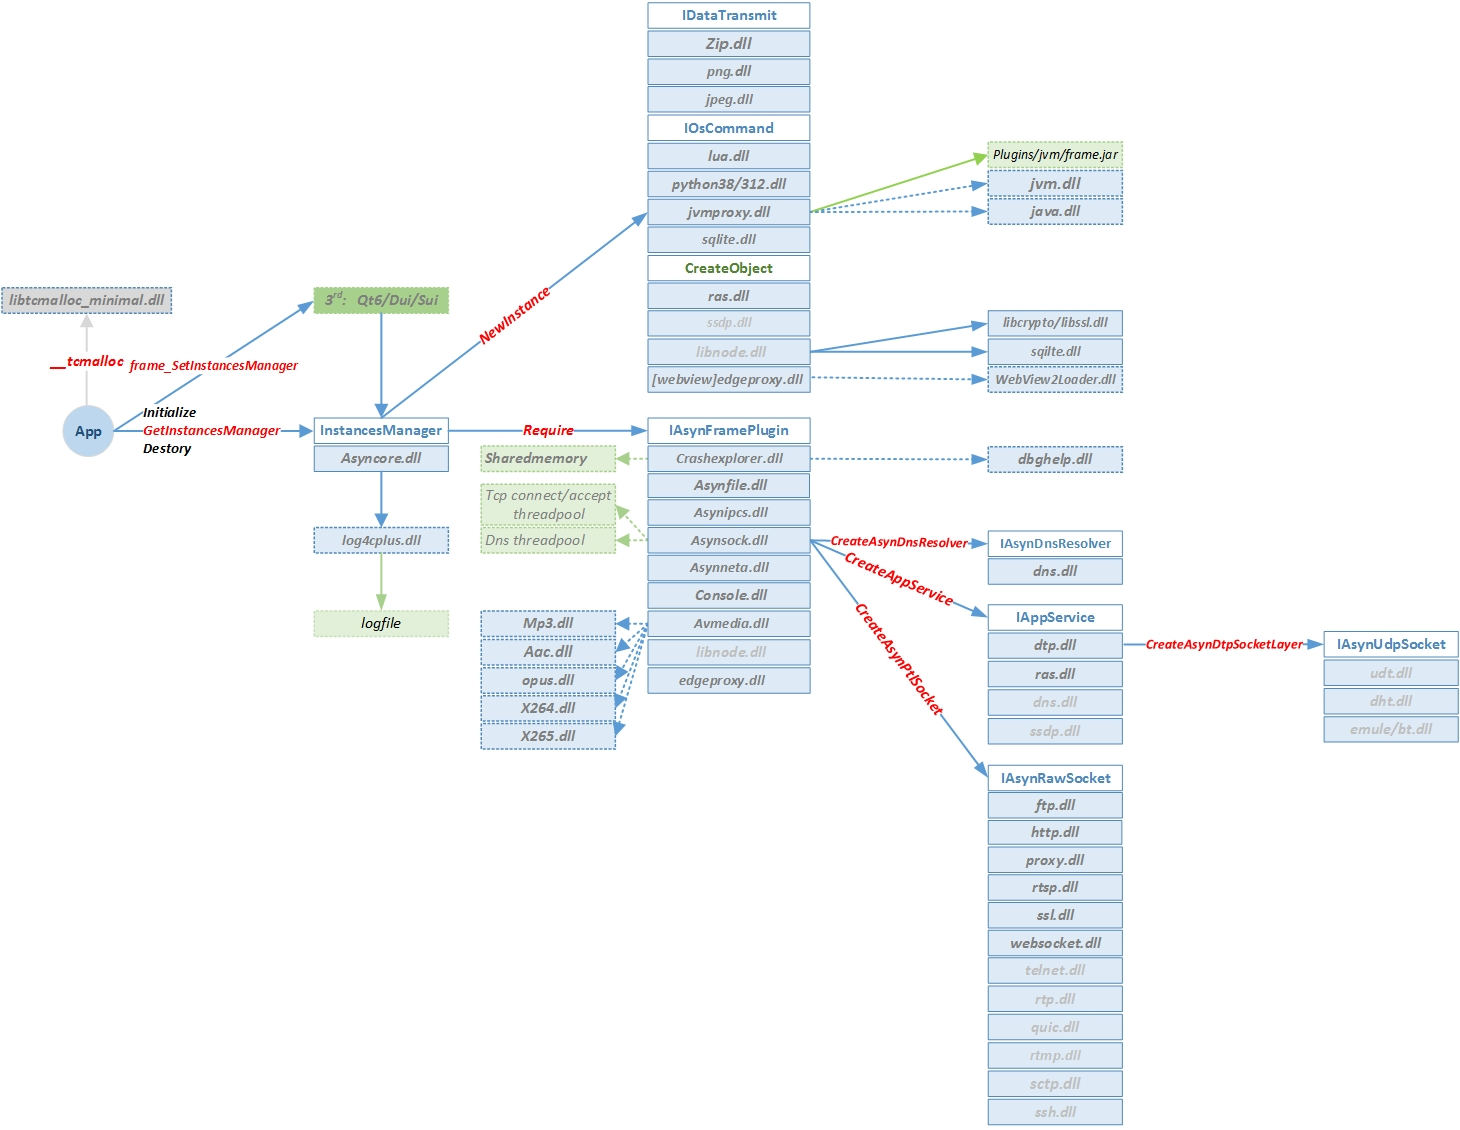
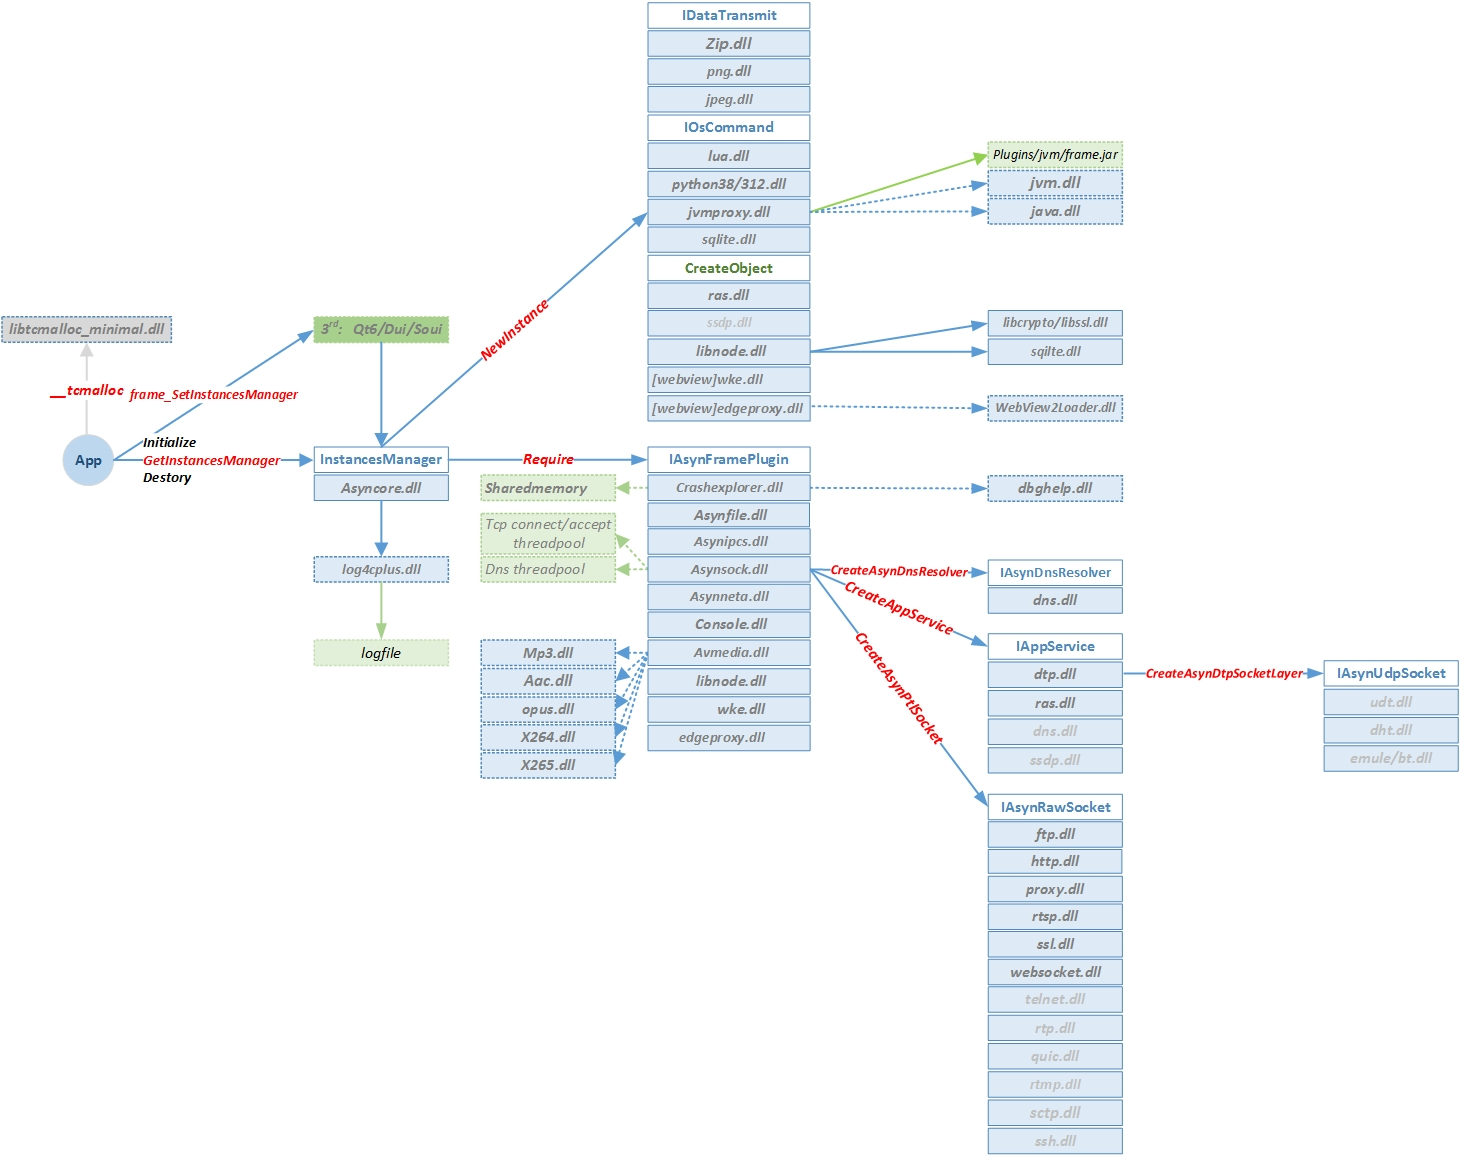
2.0.0-20250208

Changed region(s): [[0.0, 0.0, 1.0, 0.9912], [0.6164, 0.5885, 0.6473, 0.6504]]

diff --git a/index_EN.md b/index_EN.md
@@ -23,7 +23,7 @@ Asynframe framework solves the six problems mentioned above in the process of so
 ![image](https://netsecsp.github.io/img/02_asynframe.jpg)  
 
 **Feature:**  
-1. Easy integration into MFC，[DUI](https://github.com/duilib/duilib)，[SoUI](https://github.com/SOUI2/soui)，[Qt6.x](https://download.qt.io/archive/qt) And other third-party open source projects  
+1. Easy integration into MFC，[DUI](https://github.com/duilib/duilib)，[SoUI](https://github.com/SOUI2/soui)，[Qt6.7.3](https://download.qt.io/archive/qt) And other third-party open source projects  
 2. Provide a unified device operation interface (including file, pipe, socket, etc.)  
 3. The operation chain is used to solve the problems of synchronization / communication between threads, execution timeout and resource / performance when integrating third-party open source projects  
 4. Provide basic network protocol module：dns/udp/tcp/ssl/ftp/http/rtsp/proxy/websocket  
@@ -45,8 +45,9 @@ Asynframe framework solves the six problems mentioned above in the process of so
 |:--|:--|:--|:--|
 |asyncore|framework|asynframe|\support\testframe|
 |||integrate MFC|\support\3rd\mfc\testnetserver<br>\support\3rd\mfc\testnetclient_dlg<br>\support\3rd\mfc\testnetclient_doc|
-|||integrate [DUI](https://github.com/duilib/duilib)|\support\3rd\Dui|
-|||integrate [SoUI](https://github.com/SOUI2/soui)|\support\3rd\Sui|
+|||integrate [DUI](https://github.com/duilib/duilib)|https://github.com/netsecsp/asynframe_warehouse/3rd/Dui|
+|||integrate [SoUI](https://github.com/SOUI2/soui)|https://github.com/netsecsp/asynframe_warehouse/3rd/Sui|
+|||integrate [Qt6.7.3](https://github.com/SOUI2/soui)|https://github.com/netsecsp/asynframe_warehouse/3rd/Qt6.7.3|
 |crashexplorer|plugin[asyncore]|Capture the crash information of the current process and generate DMP file at the same time|\support\testcrashexplorer|
 |console|plugin[asyncore]|console<br>1.implement loading / unloading IOsCommand plug-ins：cmd/lua<br>2.implement keyboard / mouse input|\support\testconsole|
 |asynfile|plugin[asyncore]|file|\support\testfile_copy<br>\support\testfile_copy-pipe|
@@ -66,6 +67,7 @@ Asynframe framework solves the six problems mentioned above in the process of so
 |lua|plugin|Implementation of IOsCommand interface lua framework|\support\testlua\testlua<br>\support\testlua\testapi|
 |jvmproxy|plugin|Implementation of IOsCommand interface java framework|\support\testjava\testjvm<br>\support\testjava\testapi<br>[javax](https://github.com/netsecsp/javax)|
 |python38/python312|plugin|Implementation of IOsCommand interface python framework|\support\testpython\testpython<br>\support\testpython\testapi|
+|edgeproxy|plugin[asyncore]|Encapsulation ICoreWebView2|\support\testedgeproxy|
 
 # Change log
 2025/02/08 Release asynframe framework v2.0.0  
